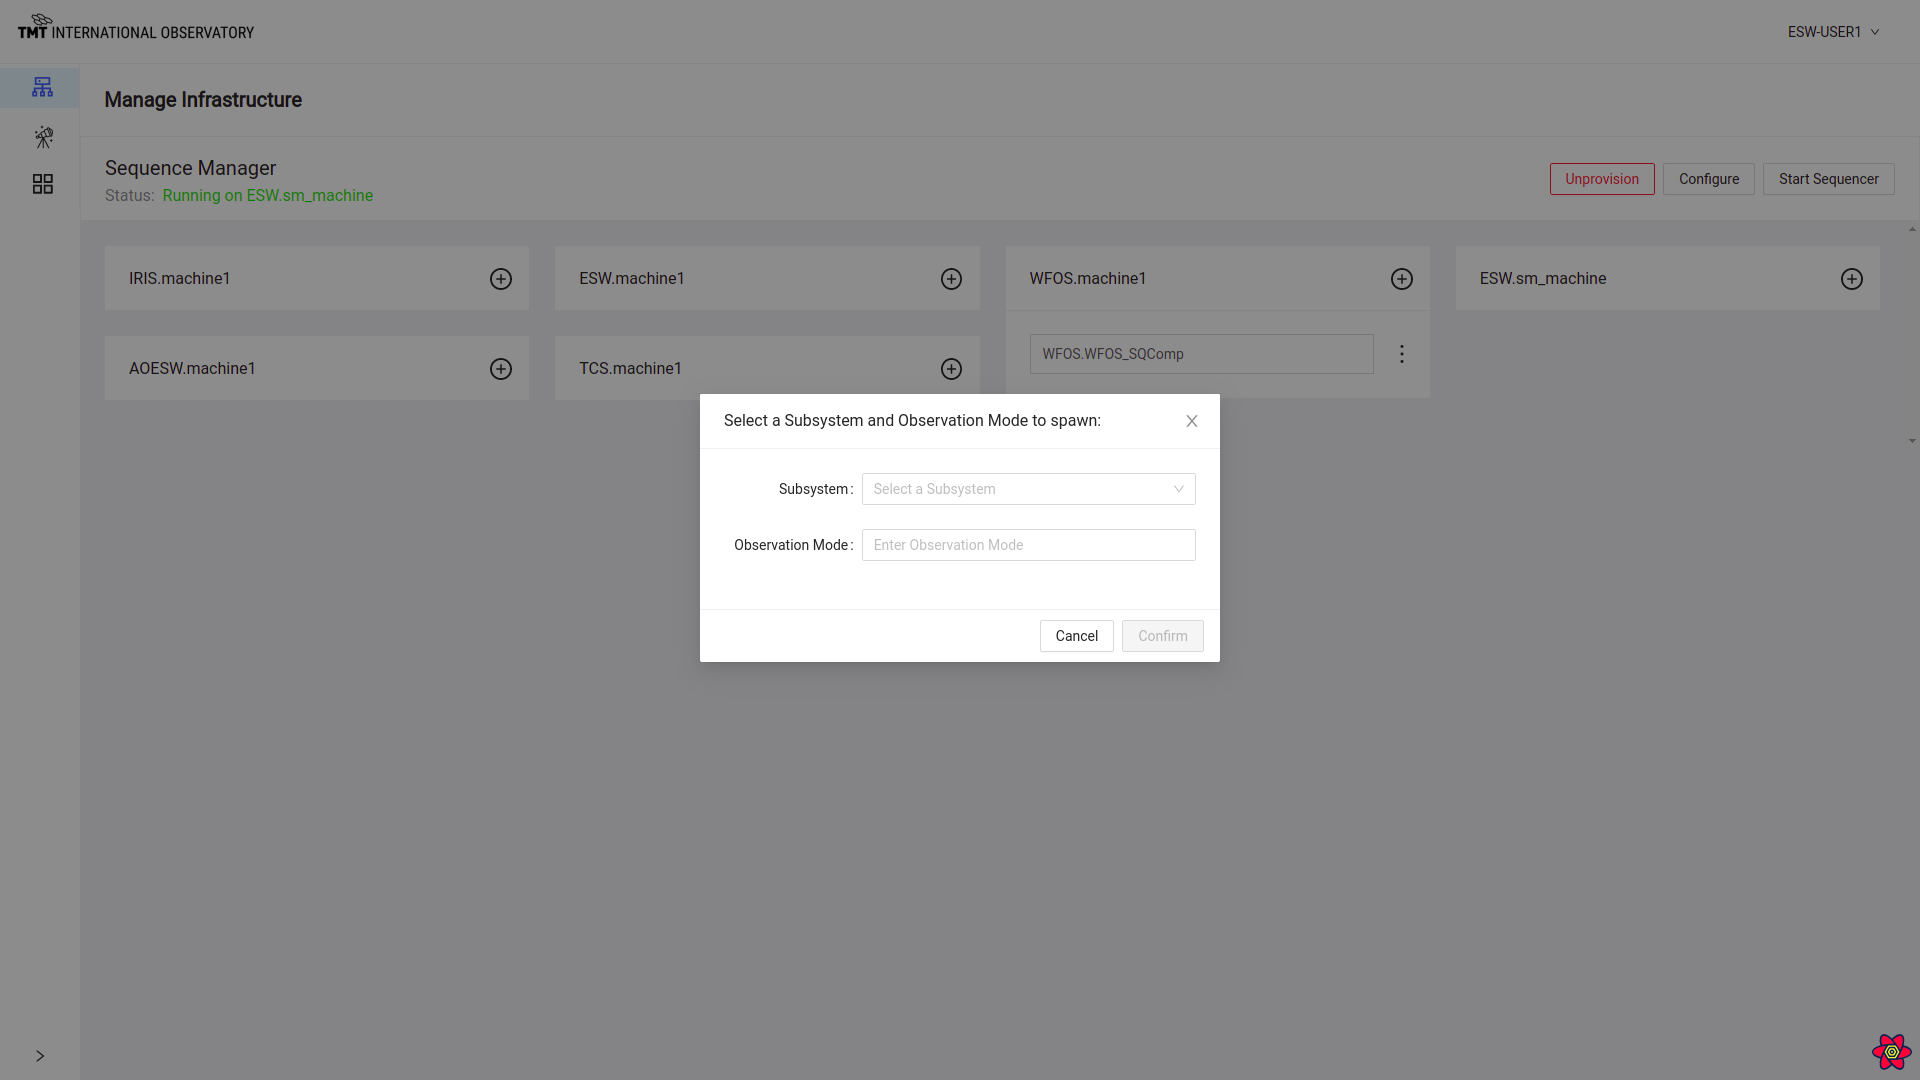
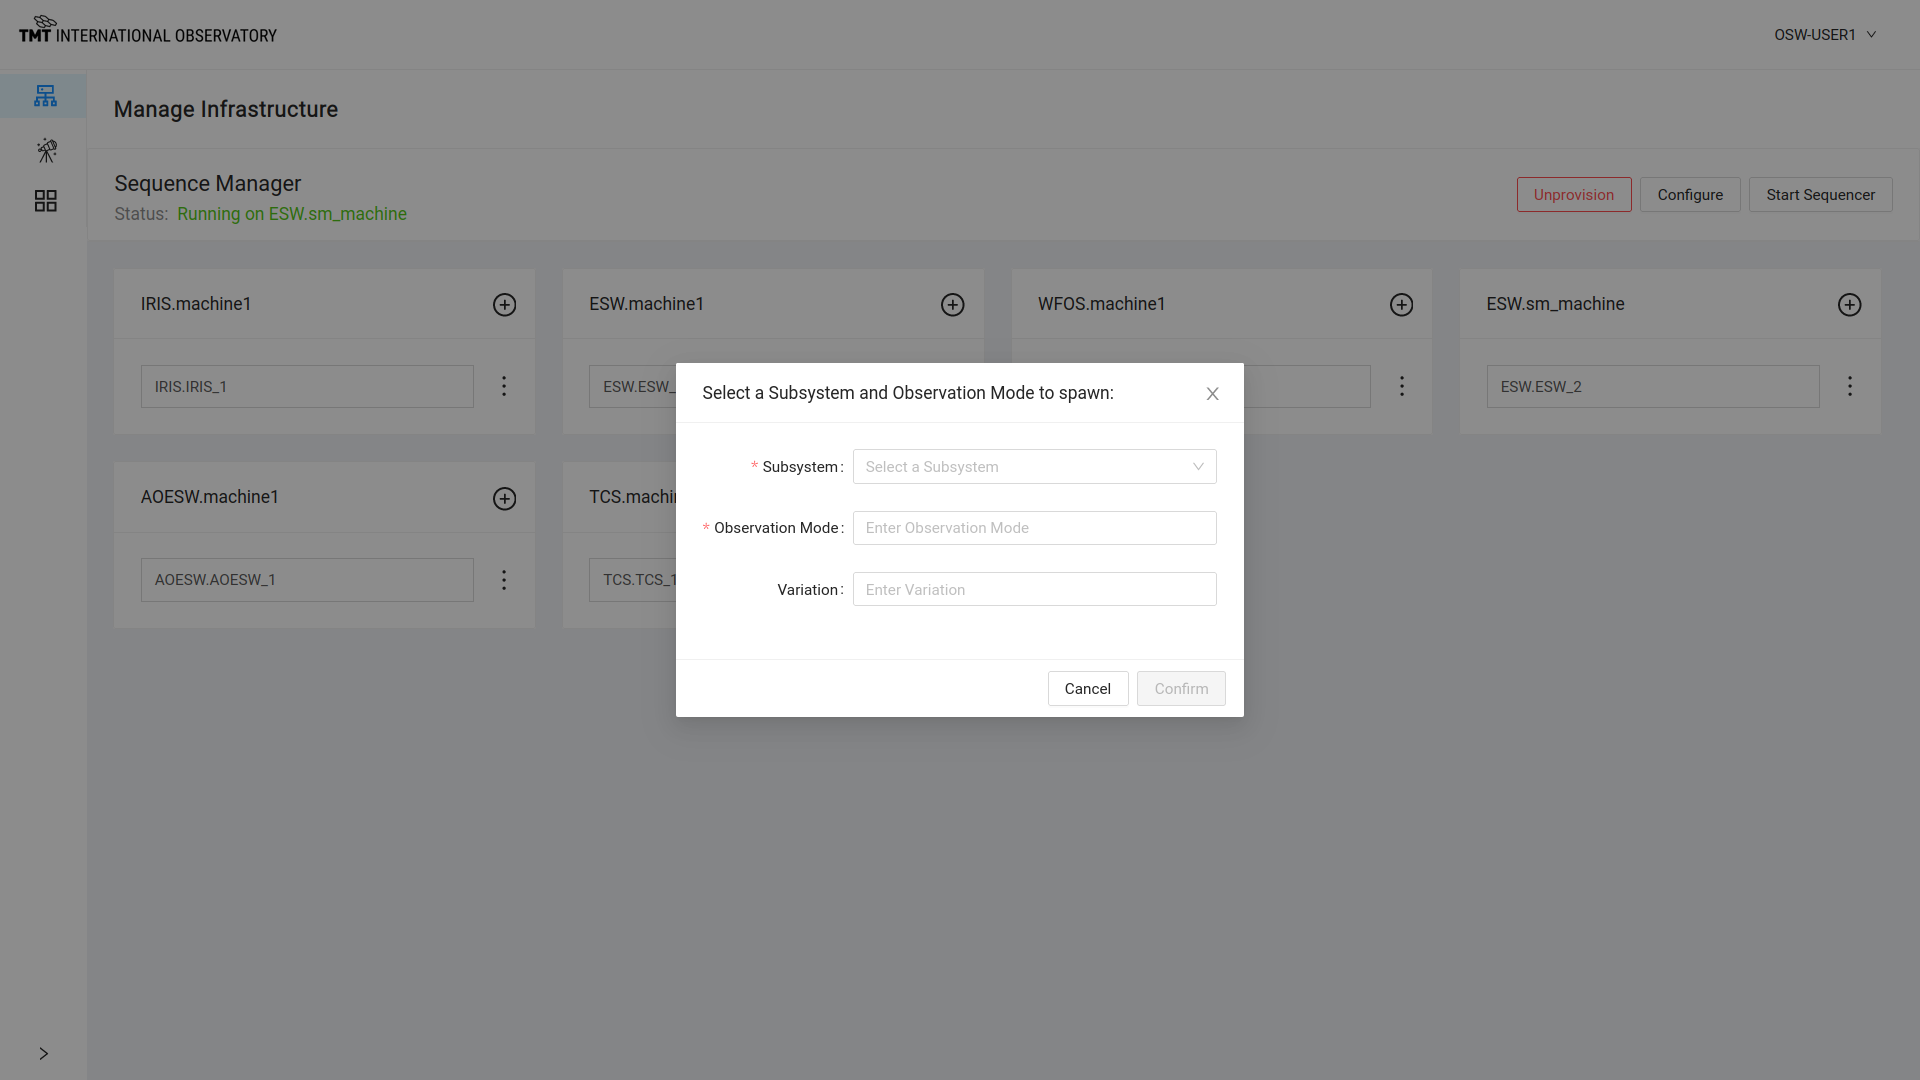
#ESW-568:Rajalakshmi:Doc changes related to supporting multiple sequencers of a subsystem

diff --git a/docs/src/main/ManageInfrastructure.md b/docs/src/main/ManageInfrastructure.md
@@ -58,18 +58,22 @@ Click on Start Sequencer Button to see the following dialog box.
 
 ![Click Start Sequencer Button](./images/ClickStartSequencerButton.png)
 
-Select a Subsystem and ObsMode to start the Sequencer.
+Select a Subsystem, ObsMode to start the Sequencer.
 
 ![SelectSubsystem](./images/StartSeq_selectSubsystem.png)
 
 ![SelectObsMode](./images/StartSeq_SelectSubsytem.png)
 
-After selecting Subsystem and ObsMode, the Sequencer will be started with the proper Script.
-In the following screenshot, a Sequencer has been started for the WFOS_Calib obsMode on WFOS.machine1.
+Optional parameter Variation can be used to differentiate between any two sequencers of one subsystem(eg. IRIS).
 
-![Started Sequencer](./images/StartedSequencer.png)
+![Write Variation](./images/ManageInfrastructure_StartSequencerWithVariationExample.png)
 
-Click : (three vertical dots!) on the Agent card with the started Sequencer to see some available options:
+After selecting Subsystem, ObsMode and optional Variation, the Sequencer will be started with the proper Script.
+In the following example, a Sequencer has been started for the IRIS_ImagerAndIFS obsMode on IRIS.machine1 with a variation as red.
+
+![Started Sequencer](./images/ManageInfrastructure_StartedSequencerWithVariation.png)
+
+Click : (three vertical dots!) on the Agent card with any of the started Sequencer to see some available options as shown in the example below:
 
 1. Stop Sequencer
 2. Reload Script
